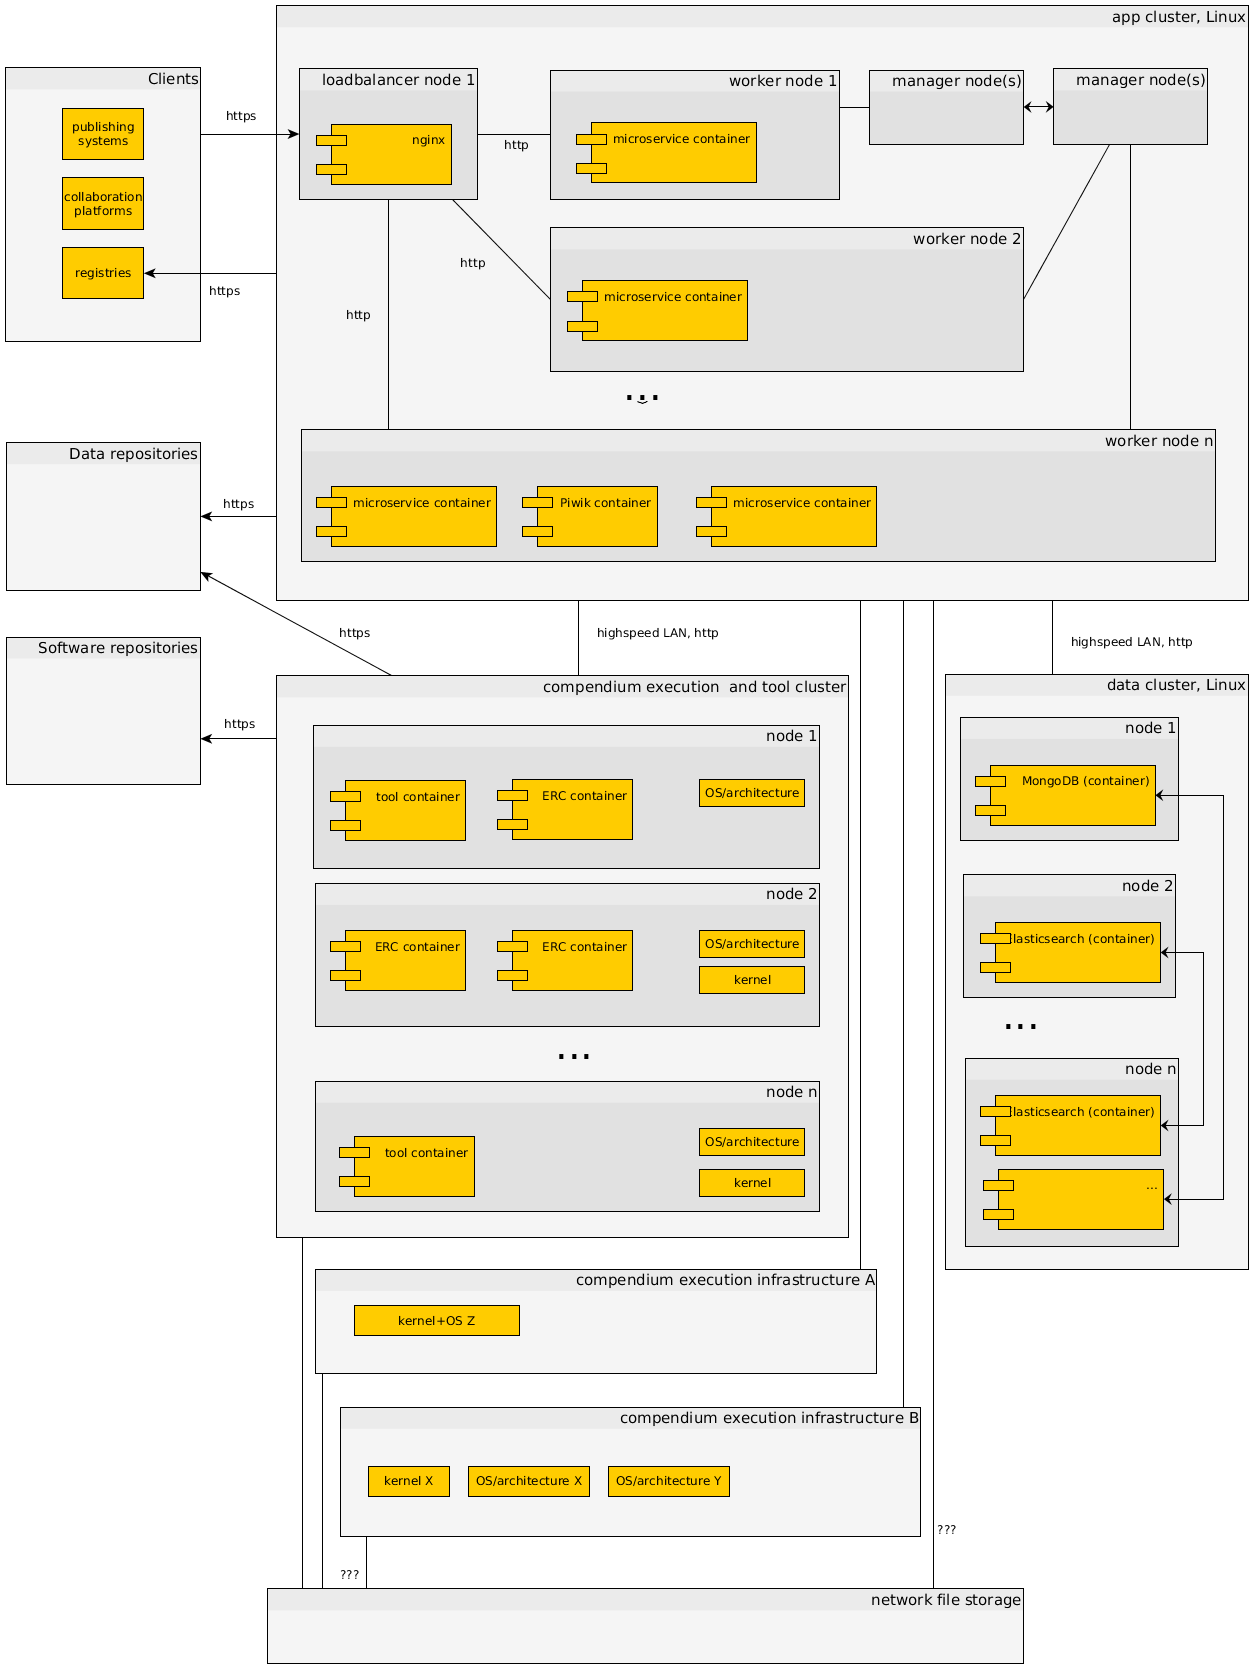
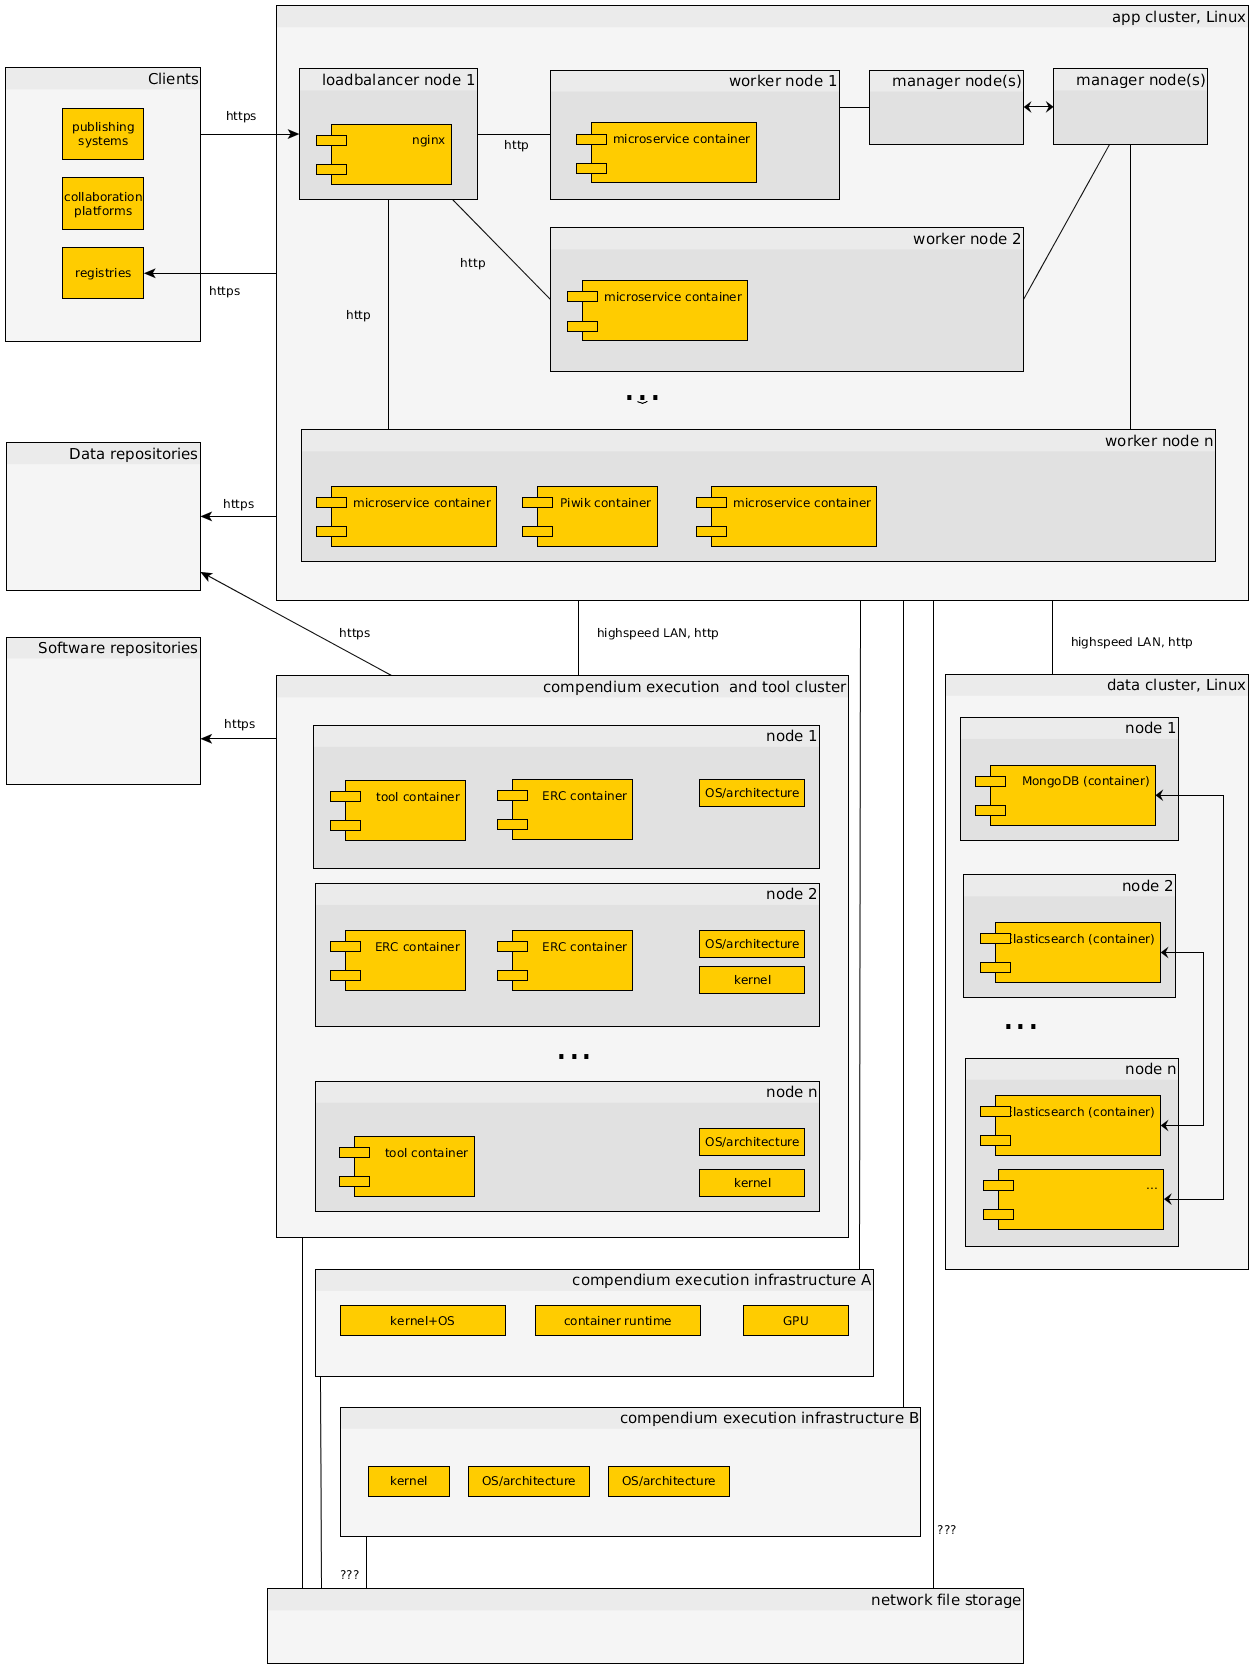
add specialised hardware to production sketch

diff --git a/docs/07_deployment-view.md b/docs/07_deployment-view.md
@@ -10,7 +10,7 @@ Motivation
 
 Quality and/or Performance Features
 
-:   The server is managed completely with [Ansible](https://www.ansible.com/) to ensure a well-document setup. The base operating system is CentOS Linux 7. The machine has 4 cores, 8 GB RAM, and a local storage ~100 GB, and runs on a VM host. The one machine in this deployment runs the full o2r reproducibility service, i.e. all microservices and a webserver to serve the user interfaces. It also runs the databases and ancillary services, such as a web traffic statistics service.
+:   The server is managed completely with [Ansible](https://www.ansible.com/) to ensure a well-document setup. The base operating system is CentOS Linux 7. The machine has 4 cores, 8 GB RAM, and a local storage ~100 GB, and runs on a VM host. The one machine in this deployment runs the full o2r reproducibility service, i.e. all microservices and a webserver to serve the user interfaces. It also runs the databases and ancillary services, such as a web traffic statistics service. When executing a compendium, the compendium workspace is packaged in a tarball and send to the Docker daemon. This allows easy switching to remote machines, but also has a performance disadvantage.
 
 Mapping of Building Blocks to Infrastructure
 
@@ -22,14 +22,15 @@ Mapping of Building Blocks to Infrastructure
 
 !!! Note
     This deployment view is a sketch for a potential productive deployment and intends to point out features of the chosen architecture and expected challenges or solutions.
+    _It is not implemented at the moment!_
 
 Motivation
 
-:   A productive system must be reliable and scalable providing a single reproducibility service API endpoint. It must also adopt the distribution and deployments of the reproducibility service's microservices. Being based on containers it naturally uses one of the powerful orchestration engines, such as [Docker Swarm](https://docs.docker.com/engine/swarm) or [Kubernetes](http://kubernetes.io/). It can also include multiple execution infrastructures to support different architectures and kernels.
+:   A productive system must be reliable and scalable providing a single reproducibility service API endpoint. It must also adopt the distribution and deployments of the reproducibility service's microservices. Being based on containers it naturally uses one of the powerful orchestration engines, such as [Docker Swarm](https://docs.docker.com/engine/swarm) or [Kubernetes](http://kubernetes.io/). It can also include multiple execution infrastructures to support multiple container software versions, different architectures, kernels, GPUs, or even specialised hardware. Operators of a reproducibility service can separate themselves from other operators by offering specific hardware or versions.
 
 Quality and/or Performance Features
 
-:   The services are redundantly provided via separated clusters of nodes for (a) running the reproducibility service's microservices and ancillary services, (b) running the document and search databases, (c) running ERC executions. Separating the clusters allows common security protocols, e.g. the tool and execution cluster should not be able to contact arbitrary websites. The software in the data cluster can run in containers or bare metal. The clusters for app and compendia have access to a common shared file storage, a potential bottleneck. Performance of microservices can be easily scaled by adding nodes to the respective clusters. The diversity of supported ERCs can be increased by providing different architectures and kernels, potentially on demand using virtualisation.
+:   The services are redundantly provided via separated clusters of nodes for (a) running the reproducibility service's microservices and ancillary services, (b) running the document and search databases, (c) running ERC executions. Separating the clusters allows common security protocols, e.g. the tool and execution cluster should not be able to contact arbitrary websites. The software in the data cluster can run in containers or bare metal. The clusters for app and compendia have access to a common shared file storage, a potential bottleneck. Performance of microservices can be easily scaled by adding nodes to the respective clusters. The diversity of supported ERCs can be increased by providing different architectures and kernels, and hardware. Some requirements could be met on demand using virtualisation, such as a specific operating system version.
 
 Mapping of Building Blocks to Infrastructure
 
